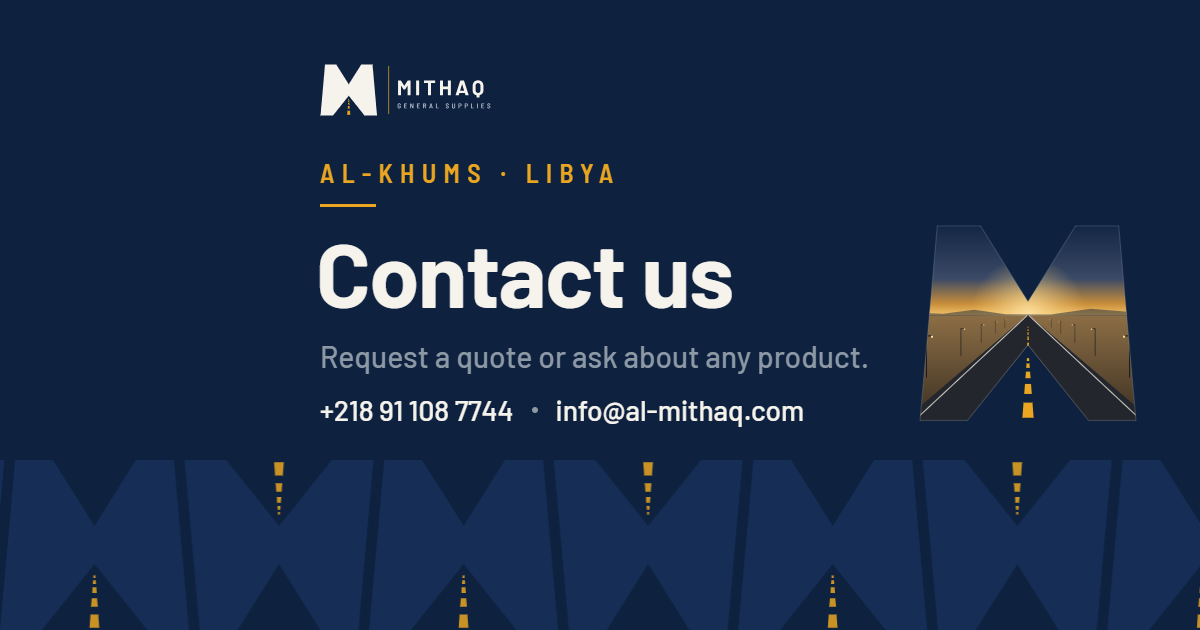
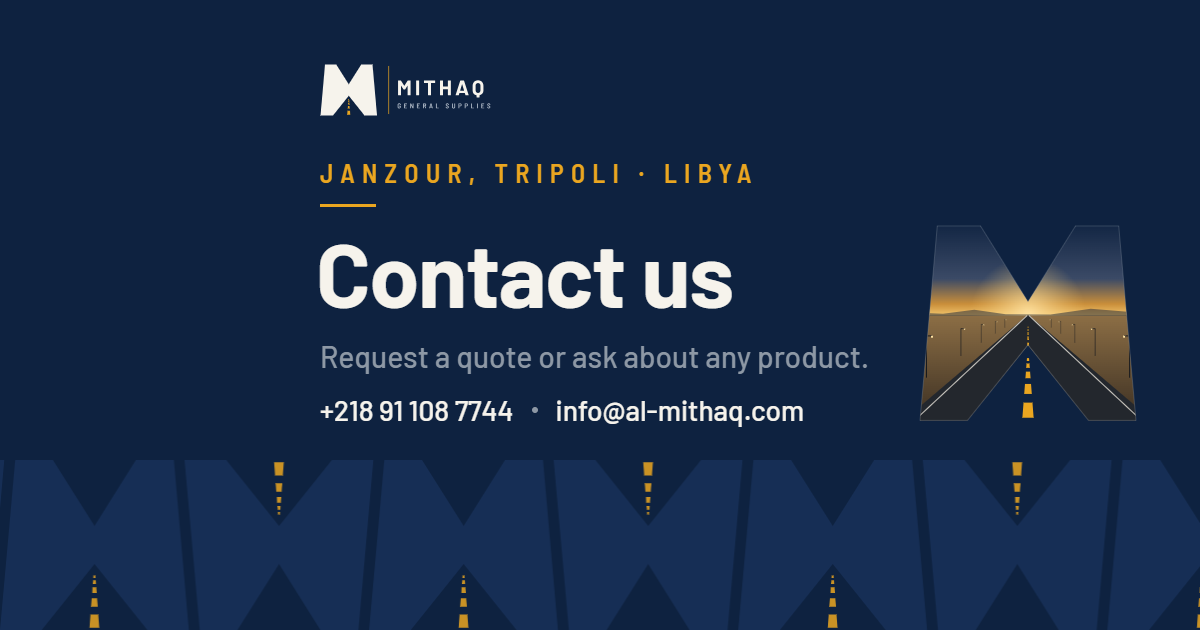
Correct the head office to Janzour, Tripoli and set the map pin
The brief said Al-Khums, but the company's map link points to Janzour on
Tripoli's western side. City names, SEO text, hero kicker, footer, Contact
section and structured data now say Janzour, Tripoli; the pin of the map link
(32.8461561, 13.0718402) is set, so the map, directions and geo are live. The
Contact share images were regenerated for the new kicker.

Changed region(s): [[0.2467, 0.2413, 0.5242, 0.3016], [0.555, 0.2413, 0.6475, 0.3016]]

diff --git a/src/data/translations.ts b/src/data/translations.ts
@@ -33,7 +33,7 @@ export const copy = {
   },
   slogan: { ar: "كلمتنا ميثاق", en: "Our word is our pledge." },
   home: {
-    heroKicker: { ar: "الخمس · ليبيا", en: "Al-Khums · Libya" },
+    heroKicker: { ar: "جنزور، طرابلس · ليبيا", en: "Janzour, Tripoli · Libya" },
     heroTitle: { ar: "نجهّز الطرق والمدن والصناعة", en: "Equipping roads, cities and industry" },
     heroSubtitle: { ar: "ثمانية قطاعات، ميثاقٌ واحد.", en: "Eight sectors. One pledge." },
     heroBody: {
@@ -103,8 +103,8 @@ export const copy = {
       en: "Mithaq is an Arabic word for a covenant, a binding promise. That is how we treat every supply.",
     },
     whatWeDo: {
-      ar: "شركة ميثاق للتجهيزات العامة توفّر المعدات والخدمات للشركات والجهات في ثمانية قطاعات، مع تركيز خاص على الطرق والخدمات البلدية. مقرنا الرئيسي في مدينة الخمس، ليبيا.",
-      en: "Mithaq General Supplies provides equipment and services to companies and public bodies across eight sectors, with a special focus on roads and municipal services. Our head office is in Al-Khums, Libya.",
+      ar: "شركة ميثاق للتجهيزات العامة توفّر المعدات والخدمات للشركات والجهات في ثمانية قطاعات، مع تركيز خاص على الطرق والخدمات البلدية. مقرنا الرئيسي في جنزور، طرابلس، ليبيا.",
+      en: "Mithaq General Supplies provides equipment and services to companies and public bodies across eight sectors, with a special focus on roads and municipal services. Our head office is in Janzour, Tripoli, Libya.",
     },
     values: [
       { title: { ar: "الالتزام", en: "Commitment" }, text: { ar: "ما نتفق عليه نلتزم به.", en: "What we agree, we honour." } },
@@ -186,19 +186,19 @@ export const copy = {
   },
   location: {
     kicker: { ar: "المقر الرئيسي", en: "Head office" },
-    title: { ar: "موقعنا في مدينة الخمس", en: "Find us in Al-Khums" },
-    lead: { ar: "على ساحل ليبيا المتوسطي، على بعد نحو 120 كم شرق طرابلس.", en: "On Libya's Mediterranean coast, about 120 km east of Tripoli." },
-    city: { ar: "مدينة الخمس، ليبيا", en: "Al-Khums, Libya" },
+    title: { ar: "موقعنا في جنزور", en: "Find us in Janzour" },
+    lead: { ar: "على ساحل البحر المتوسط، في جنزور غرب مدينة طرابلس.", en: "On the Mediterranean coast, in Janzour, west of Tripoli." },
+    city: { ar: "جنزور، طرابلس، ليبيا", en: "Janzour, Tripoli, Libya" },
     directions: { ar: "احصل على الاتجاهات", en: "Get directions" },
     openMap: { ar: "افتح في خرائط Google", en: "Open in Google Maps" },
     newTab: { ar: "يفتح في نافذة جديدة", en: "opens in a new tab" },
-    mapTitle: { ar: "خريطة المقر الرئيسي لشركة ميثاق في مدينة الخمس", en: "Map of Mithaq's head office in Al-Khums" },
+    mapTitle: { ar: "خريطة المقر الرئيسي لشركة ميثاق في جنزور، طرابلس", en: "Map of Mithaq's head office in Janzour, Tripoli" },
   },
   footer: {
     pages: { ar: "الصفحات", en: "Pages" },
     sectors: { ar: "القطاعات", en: "Sectors" },
     contact: { ar: "تواصل", en: "Contact" },
-    headOffice: { ar: "المقر الرئيسي: الخمس، ليبيا", en: "Head office: Al-Khums, Libya" },
+    headOffice: { ar: "المقر الرئيسي: جنزور، طرابلس، ليبيا", en: "Head office: Janzour, Tripoli, Libya" },
     rights: { ar: "© 2026 شركة ميثاق للتجهيزات العامة. جميع الحقوق محفوظة.", en: "© 2026 Mithaq General Supplies. All rights reserved." },
   },
   notFound: {
@@ -218,8 +218,8 @@ export const copy = {
     home: {
       title: { ar: "ميثاق للتجهيزات العامة | معدات الطرق والبلديات والسلامة", en: "Mithaq General Supplies | Road, municipal and safety equipment" },
       description: {
-        ar: "شركة ميثاق للتجهيزات العامة في الخمس، ليبيا: توريد معدات الطرق والخدمات البلدية والسلامة والنفط والغاز وقطع الغيار في ثمانية قطاعات.",
-        en: "Mithaq General Supplies, Al-Khums, Libya: equipment for roads, municipal services, safety, oil and gas, spare parts, medical and office needs across eight sectors.",
+        ar: "شركة ميثاق للتجهيزات العامة في جنزور، طرابلس، ليبيا: توريد معدات الطرق والخدمات البلدية والسلامة والنفط والغاز وقطع الغيار في ثمانية قطاعات.",
+        en: "Mithaq General Supplies, Janzour, Tripoli, Libya: equipment for roads, municipal services, safety, oil and gas, spare parts, medical and office needs across eight sectors.",
       },
     },
     sectors: {
@@ -236,7 +236,7 @@ export const copy = {
     },
     about: {
       title: { ar: "من نحن | ميثاق للتجهيزات العامة", en: "About | Mithaq General Supplies" },
-      description: { ar: "ميثاق تعني العهد: شركة توريد معدات وخدمات في ثمانية قطاعات، مقرها الخمس، ليبيا.", en: "Mithaq means covenant: an equipment and services supplier across eight sectors, based in Al-Khums, Libya." },
+      description: { ar: "ميثاق تعني العهد: شركة توريد معدات وخدمات في ثمانية قطاعات، مقرها جنزور، طرابلس، ليبيا.", en: "Mithaq means covenant: an equipment and services supplier across eight sectors, based in Janzour, Tripoli, Libya." },
     },
     partners: {
       title: { ar: "الشركاء | ميثاق للتجهيزات العامة", en: "Partners | Mithaq General Supplies" },
@@ -244,7 +244,7 @@ export const copy = {
     },
     contact: {
       title: { ar: "تواصل معنا | ميثاق للتجهيزات العامة", en: "Contact | Mithaq General Supplies" },
-      description: { ar: "اطلب عرض سعر من شركة ميثاق للتجهيزات العامة. المقر الرئيسي: الخمس، ليبيا.", en: "Request a quote from Mithaq General Supplies. Head office: Al-Khums, Libya." },
+      description: { ar: "اطلب عرض سعر من شركة ميثاق للتجهيزات العامة. المقر الرئيسي: جنزور، طرابلس، ليبيا.", en: "Request a quote from Mithaq General Supplies. Head office: Janzour, Tripoli, Libya." },
     },
     // Added during the build: the 404 page.
     notFound: {
@@ -272,7 +272,7 @@ export const copy = {
   pageKickers: {
     sectors: { ar: "ما نورّده", en: "What we supply" },
     products: { ar: "الكتالوج", en: "Catalogue" },
-    contact: { ar: "الخمس · ليبيا", en: "Al-Khums · Libya" },
+    contact: { ar: "جنزور، طرابلس · ليبيا", en: "Janzour, Tripoli · Libya" },
   },
 };
 

diff --git a/index.html b/index.html
@@ -11,7 +11,7 @@
     <link rel="manifest" href="/site.webmanifest" />
     <!-- seo:start (replaced per page by scripts/prerender.mjs; removed at runtime, where each page renders its own tags) -->
     <title data-ssr>ميثاق للتجهيزات العامة | معدات الطرق والبلديات والسلامة</title>
-    <meta data-ssr name="description" content="شركة ميثاق للتجهيزات العامة في الخمس، ليبيا: توريد معدات الطرق والخدمات البلدية والسلامة والنفط والغاز وقطع الغيار في ثمانية قطاعات." />
+    <meta data-ssr name="description" content="شركة ميثاق للتجهيزات العامة في جنزور، طرابلس، ليبيا: توريد معدات الطرق والخدمات البلدية والسلامة والنفط والغاز وقطع الغيار في ثمانية قطاعات." />
     <link data-ssr rel="canonical" href="https://al-mithaq.com/ar" />
     <link data-ssr rel="alternate" hreflang="ar" href="https://al-mithaq.com/ar" />
     <link data-ssr rel="alternate" hreflang="en" href="https://al-mithaq.com/en" />
@@ -19,7 +19,7 @@
     <meta data-ssr property="og:type" content="website" />
     <meta data-ssr property="og:site_name" content="شركة ميثاق للتجهيزات العامة" />
     <meta data-ssr property="og:title" content="ميثاق للتجهيزات العامة | معدات الطرق والبلديات والسلامة" />
-    <meta data-ssr property="og:description" content="شركة ميثاق للتجهيزات العامة في الخمس، ليبيا: توريد معدات الطرق والخدمات البلدية والسلامة والنفط والغاز وقطع الغيار في ثمانية قطاعات." />
+    <meta data-ssr property="og:description" content="شركة ميثاق للتجهيزات العامة في جنزور، طرابلس، ليبيا: توريد معدات الطرق والخدمات البلدية والسلامة والنفط والغاز وقطع الغيار في ثمانية قطاعات." />
     <meta data-ssr property="og:url" content="https://al-mithaq.com/ar" />
     <meta data-ssr property="og:image" content="https://al-mithaq.com/og/og-ar.png" />
     <meta data-ssr property="og:image:width" content="1200" />

diff --git a/src/data/index.ts b/src/data/index.ts
@@ -52,7 +52,7 @@ export const company = {
   name: { ar: 'شركة ميثاق للتجهيزات العامة', en: 'Mithaq General Supplies' },
   shortName: { ar: 'ميثاق', en: 'Mithaq' },
   slogan: copy.slogan, // [CONFIRM]
-  city: { ar: 'الخمس', en: 'Al-Khums' },
+  city: { ar: 'جنزور، طرابلس', en: 'Janzour, Tripoli' },
   country: { ar: 'ليبيا', en: 'Libya' },
   founded: null as number | null, // [CONFIRM] the About "Company facts" block stays hidden while this is null
   registration: null as Localized | null, // [CONFIRM]
@@ -292,13 +292,14 @@ export const contact = {
   email: 'info@al-mithaq.com',
   headOffice: {
     label: { ar: 'المقر الرئيسي', en: 'Head office' },
-    value: { ar: 'مدينة الخمس، ليبيا', en: 'Al-Khums, Libya' },
+    value: { ar: 'جنزور، طرابلس، ليبيا', en: 'Janzour, Tripoli, Libya' },
     street: null as Localized | null, // [CONFIRM]
   },
   map: {
     link: 'https://maps.app.goo.gl/JxddCUthB8No13AE7?g_st=iw',
-    lat: null as number | null, // [CONFIRM] when lat and lng are set, the Contact page embeds the map
-    lng: null as number | null, // [CONFIRM]
+    // The pin of the map link itself (its redirect carries q=32.8461561,13.0718402). MOAD to confirm it is the right building.
+    lat: 32.8461561 as number | null, // when lat and lng are set, the Contact page embeds the map
+    lng: 13.0718402 as number | null,
   },
   hours: null as Localized | null, // [CONFIRM] the Contact page shows "To be added" while null
   social: [] as SocialLink[], // [CONFIRM] real links only; no icons are shown while empty
@@ -375,7 +376,7 @@ export function businessJsonLd(): Record<string, unknown> {
     logo: 'https://al-mithaq.com/icon-512.png',
     email: contact.email,
     telephone: contact.phones[0].tel,
-    address: { '@type': 'PostalAddress', addressLocality: 'Al-Khums', addressCountry: 'LY' },
+    address: { '@type': 'PostalAddress', addressLocality: 'Janzour, Tripoli', addressCountry: 'LY' },
     hasMap: contact.map.link,
   };
   const { lat, lng } = contact.map;

diff --git a/src/data/og-images.ts b/src/data/og-images.ts
@@ -44,8 +44,8 @@ export const ogImages: Readonly<Record<string, { ar: OgImage; en: OgImage }>> = 
     en: { src: '/og/en/partners.png?v=0f3cf363bd', width: 1200, height: 630, type: 'image/png', alt: 'Our partners, Mithaq General Supplies' },
   },
   '/contact': {
-    ar: { src: '/og/ar/contact.png?v=dd68fff36f', width: 1200, height: 630, type: 'image/png', alt: 'تواصل معنا، شركة ميثاق للتجهيزات العامة' },
-    en: { src: '/og/en/contact.png?v=048ab57ade', width: 1200, height: 630, type: 'image/png', alt: 'Contact us, Mithaq General Supplies' },
+    ar: { src: '/og/ar/contact.png?v=c3f6bbcbf6', width: 1200, height: 630, type: 'image/png', alt: 'تواصل معنا، شركة ميثاق للتجهيزات العامة' },
+    en: { src: '/og/en/contact.png?v=7b9b64124d', width: 1200, height: 630, type: 'image/png', alt: 'Contact us, Mithaq General Supplies' },
   },
 };
 
@@ -56,5 +56,5 @@ export const ogImageSources: Readonly<Record<string, { ar: string; en: string }>
   '/products/g2200': { ar: '16439328c0', en: '3114a4e5c1' },
   '/about': { ar: '262d8f7206', en: '0f0159e9e3' },
   '/partners': { ar: '3ee11ae903', en: '6a1cd5c0c6' },
-  '/contact': { ar: 'd59ae6218e', en: '57ed53858e' },
+  '/contact': { ar: 'acc08da554', en: 'cb784dbc86' },
 };

diff --git a/src/components/ui/Typeset.tsx b/src/components/ui/Typeset.tsx
@@ -55,7 +55,7 @@ export function setFigures(source: string): ReactNode {
   );
 }
 
-/** Keeps hyphenated compounds ("Four-Wheel", "Al-Khums") on one line, so a heading never breaks at the hyphen. */
+/** Keeps hyphenated compounds ("Four-Wheel", "Al-Mithaq") on one line, so a heading never breaks at the hyphen. */
 export function keepCompounds(text: string): ReactNode {
   const parts = text.split(/(\S+-\S+)/);
   if (parts.length === 1) return text;

diff --git a/PROGRESS.md b/PROGRESS.md
@@ -1,7 +1,7 @@
 # Mithaq General Supplies website: progress
 
 Bilingual (Arabic/English) luxury catalogue site for **al-mithaq.com**, built by SwiftScale.
-The full brief is saved in [`docs/BUILD_PROMPT.md`](docs/BUILD_PROMPT.md); code conventions are in [`docs/CONVENTIONS.md`](docs/CONVENTIONS.md); brand-package notes are in [`docs/LOGO_PACKAGE_README.txt`](docs/LOGO_PACKAGE_README.txt) and [`docs/ASSETS.md`](docs/ASSETS.md).
+The full brief is saved in [`docs/BUILD_PROMPT.md`](docs/BUILD_PROMPT.md) (it still says Al-Khums, which was wrong: the head office is in Janzour, Tripoli); code conventions are in [`docs/CONVENTIONS.md`](docs/CONVENTIONS.md); brand-package notes are in [`docs/LOGO_PACKAGE_README.txt`](docs/LOGO_PACKAGE_README.txt) and [`docs/ASSETS.md`](docs/ASSETS.md).
 
 **New session?** Read this file and `git log` first.
 
@@ -90,7 +90,7 @@ React 19.3 · Vite 8 · TypeScript 7 · Tailwind CSS 4.3 (`@theme` tokens in `sr
 ## TODO for the client ([CONFIRM] items)
 
 1. Slogan: كلمتنا ميثاق · "Our word is our pledge."
-2. Head-office map coordinates [CONFIRM] (`contact.map.lat`, `lng`, copied from the pin of the map link by MOAD; never estimated) and street address. The map link itself is confirmed by the company. Until the coordinates are set, the Contact page shows the navy map card with "Open in Google Maps" only (no iframe, no "Get directions") and the structured data has no `geo`; once set, the embedded map, the directions button and `geo` appear by themselves.
+2. Head-office location: **Janzour, Tripoli, Libya** (corrected on 23 Nov 2026; the first build said Al-Khums, taken from the original brief, which was wrong). Coordinates 32.8461561, 13.0718402 are the pin of the company's map link (read from its redirect); OpenStreetMap labels that spot Assarraj (السراج), Jafara district, the district that contains Janzour. MOAD to confirm the pin sits on the right building. Street address still [CONFIRM].
 3. Working hours. The Contact page shows "To be added" / "سيُضاف قريباً"; the footer leaves hours out.
 4. Social media links (no icons are shown until real links exist).
 5. Founding year and registration details (the About "Company facts" block stays hidden until then).
